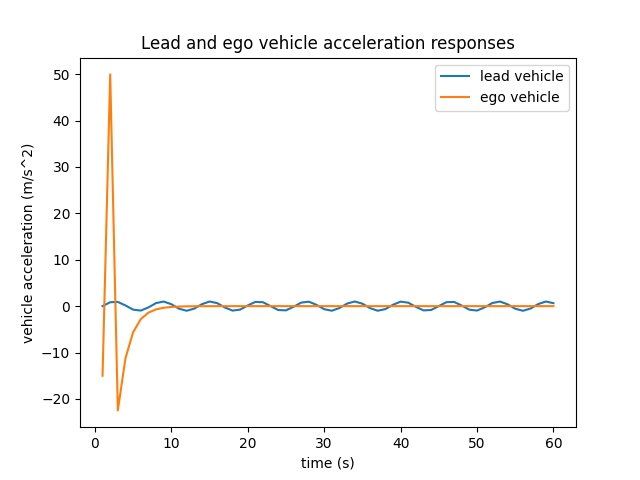
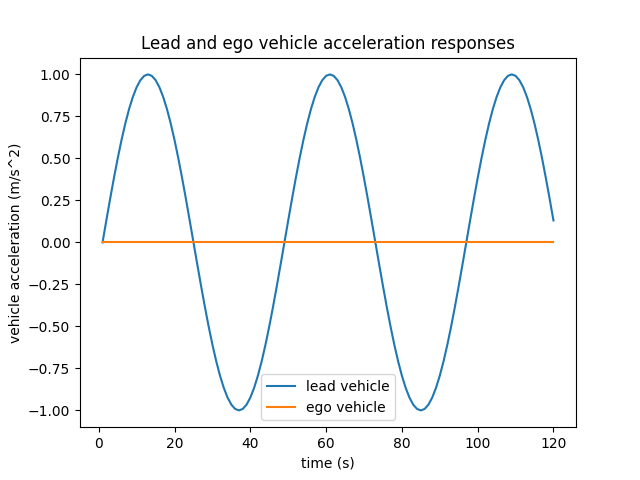
fixed lead acceleration sin input to be smooth, maybe fixed ego response in distance violation. still problems with ego acceleration and errors

diff --git a/src/main.cc b/src/main.cc
@@ -7,15 +7,16 @@
 
 #define SETSPEED    30  // setpoint ego speed in m/s
 #define SETDISTANCE 10  // minimum distance in m
-#define SIMDURATION 60  // simulation duration in s
+#define SIMDURATION 120  // simulation duration in s
 #define SCALE       1   // scale factor for lead acceleration sine wave
 #define SHIFT       0   // shift factor for lead acceleration sine wave
+#define CYCLES      5
 
 int main(int argc, char* argv[]) {
 
     // initialize vehicles
     Vehicle lead("lead", 10, 30, 0);
-    Vehicle ego("ego", 0, 40, 0);
+    Vehicle ego("ego", 0, 30, 0);
 
     
     ACC acc(SETSPEED, SETDISTANCE); // initialize with the set values
@@ -29,13 +30,15 @@ int main(int argc, char* argv[]) {
     // iterate through clk
     for(int i=0; i<SIMDURATION; i++) {
 
+
+        lead.UpdateState(SCALE*sin(M_PI*CYCLES*i/SIMDURATION)+SHIFT); // updates from waveform
+
         // checks distance between ego and lead
         // decides whether to keep at ego speed or adjust to keep min distance
         acc.ApplyControl(lead.GetPosition(), ego.GetPosition(), ego.GetSpeed());
 
         // update vehicle states
         ego.UpdateState(acc.GetAcceleration()); // updates from ACC based on applied control
-        lead.UpdateState(SCALE*sin(i)+SHIFT); // updates from waveform
 
 //        std::cout << lead.GetSpeed() << "," << ego.GetSpeed() << "," << lead.GetAcceleration() << "," << ego.GetAcceleration() << "," << distance << std::endl;
 

diff --git a/src/acc.cc b/src/acc.cc
@@ -24,7 +24,7 @@ void ACC::ApplyControl(double lead_distance, double ego_distance, double actual_
 
     this->actual_speed=actual_speed;
 
-    if(abs(lead_distance-ego_distance) > set_distance) {
+    if(abs(lead_distance-ego_distance) >= set_distance) {
         // minimum distance is not violated
 
 //        std::cout << "dist not violated" << std::endl;
@@ -36,22 +36,13 @@ void ACC::ApplyControl(double lead_distance, double ego_distance, double actual_
     } else {
 //        std::cout << "dist violated" << std::endl;
         // minimum distance is violated
-        setpoint = abs(set_speed-actual_speed);
-        // trigger PID to act around new setpoint
-        control = controller.Compute(actual_speed, setpoint);
+        // apply brakes proportional to how much dist was violated
+        // make it skirt the bounds somehow
 
-       
+        control = - abs(set_distance - (lead_distance-ego_distance));
 
-      //  brake = -control;
-       // gas = 0;
     } 
 
-//    control = control*0.1;
-//    if(control>10) {
- //       control=control*0.1;
-//    } else if(control<-10) {
-//        control=control*0.1;
- //   }
 
     if(control>=0) {
         gas=control;

diff --git a/src/vehicle.cc b/src/vehicle.cc
@@ -23,7 +23,8 @@ void Vehicle::UpdateState(double acceleration) {
 
     speed+= 1 * acceleration; // increments by tick duration * acceleration
 
-    position+=(speed*1 + 0.5 * acceleration * pow(1,2));
+//    position+=(speed*1 + 0.5 * acceleration * pow(1,2));
+    position+= 1 * speed;
     // use the given speed value to compute a distance traveled value
     // distance+=speed*1; // applies speed value for 1 second
     // find speed from acceleration

diff --git a/tests/main.py b/tests/main.py
@@ -8,7 +8,7 @@ import matplotlib.pyplot as plt
 
 if __name__ == "__main__":
 
-    DURATION=60
+    DURATION=120
     STEP=1
     T = np.linspace(1, DURATION, STEP*DURATION)
 
@@ -105,4 +105,3 @@ if __name__ == "__main__":
     plt.legend(["lead vehicle", "ego vehicle"])
     DISTANCE=[10]*DURATION
     plt.savefig("plots/distance.png")
-
